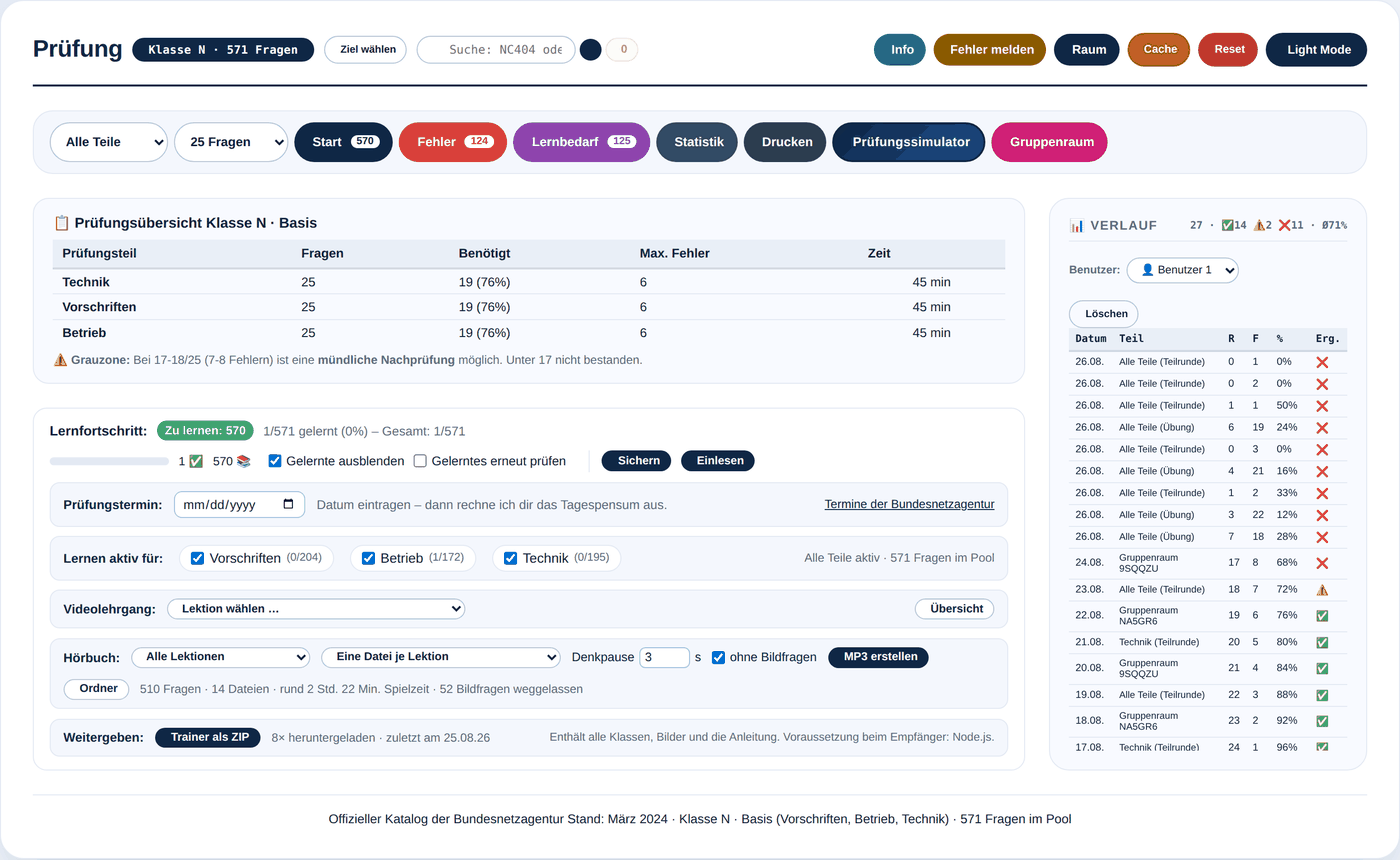
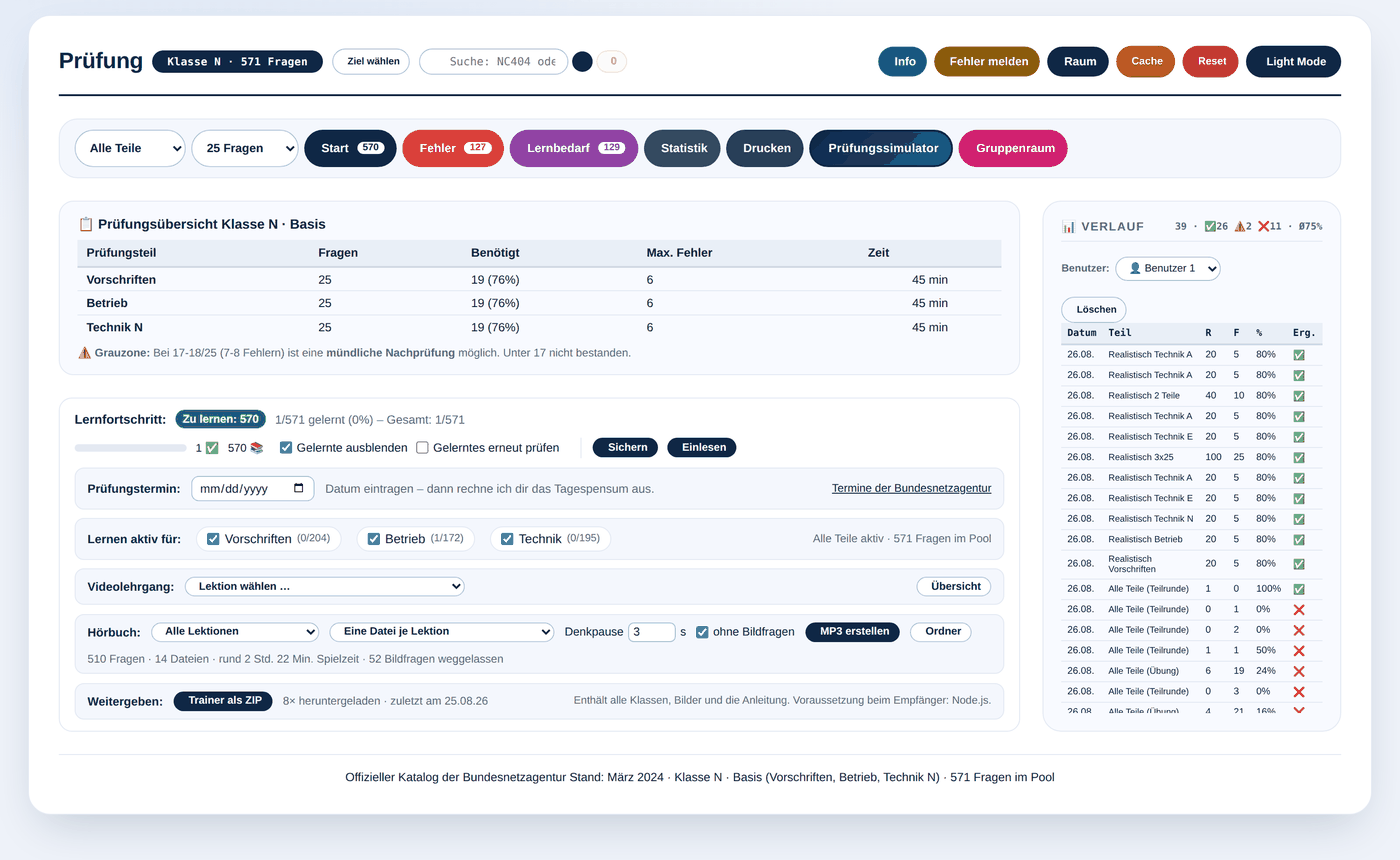
Stand vom Tag des Hochladens

diff --git a/CHANGELOG.md b/CHANGELOG.md
@@ -2243,3 +2243,35 @@ GitHub. Sie schadet nicht, aber wer beide sieht, fragt sich, welche gilt.
 Nur gemeldet, nicht angefasst - Loeschen ist Dietmars Entscheidung.
 Der Ordner `test/` dagegen darf bleiben: `tts-expand.test.js` ist echter
 Pruefcode.
+
+## 26.08.2026 - Der Banner ganz oben, und ein Bild, das nicht mehr stimmte
+
+Dietmar: "Das Bild wurde in GitHub nicht geladen." Und auf Nachfrage: "In
+GitHub fehlt es ganz oben!"
+
+**Erst nachgesehen, statt zu reparieren.** Die naheliegende Vermutung waere
+gewesen, dass mit der Bilddatei etwas nicht stimmt. Also nachgemessen:
+1280x640, 8 Bit RGB, nicht interlaced, 278 KB, kein Farbprofil - genau das,
+was GitHub verlangt. Und ueber raw.githubusercontent.com abgerufen: alle
+zehn Bilder des README liefern HTTP 200. An den Dateien lag es nicht.
+
+Gemeint war etwas anderes: Die Seite fing mit der Ueberschrift an. Ganz oben
+stand kein Bild. Das Vorschaubild lag zwar im Ordner, aber nur fuer den
+Fall, dass jemand den Link teilt - auf der Seite selbst kam es nicht vor.
+Ein Missverstaendnis auf meiner Seite: Ich hatte "Bilder fuer GitHub" als
+"Vorschaubild beim Teilen" gelesen, gemeint war der Kopf der Seite.
+
+Also steht die Karte jetzt als Banner ganz oben im README, mittig, 900
+Punkte breit. Sie tut damit beides: Kopf der Seite und Vorschaubild beim
+Teilen.
+
+**Dabei aufgefallen, und das war der eigentliche Fund:** Das erste
+Bildschirmfoto (`01-hauptansicht.png`) zeigte noch die alte
+Pruefungsuebersicht - drei Zeilen "Technik / Vorschriften / Betrieb", alle
+45 Minuten. Seit heute Mittag stimmt das nicht mehr; die Uebersicht nennt
+die Teile beim Namen ("Technik N") und kennt die 60 Minuten fuer Technik A.
+Das allererste Bild, das ein Besucher sieht, haette also dem widersprochen,
+was der Trainer tut. Neu aufgenommen.
+
+Merkposten fuer kuenftige Aenderungen an der Oberflaeche: Bildschirmfotos
+altern still. Sie sagen nie, dass sie veraltet sind.

diff --git a/README.md b/README.md
@@ -1,3 +1,7 @@
+<p align="center">
+  <img src="bilder/github-vorschau.png" alt="Amateurfunk-Trainer — der komplette Fragenkatalog der Bundesnetzagentur mit Prüfungssimulator, Hörbuch und Gruppenraum" width="900">
+</p>
+
 # Amateurfunk-Trainer
 
 Ein Lernprogramm für die deutsche Amateurfunkprüfung — **Klasse N, E und A**.
